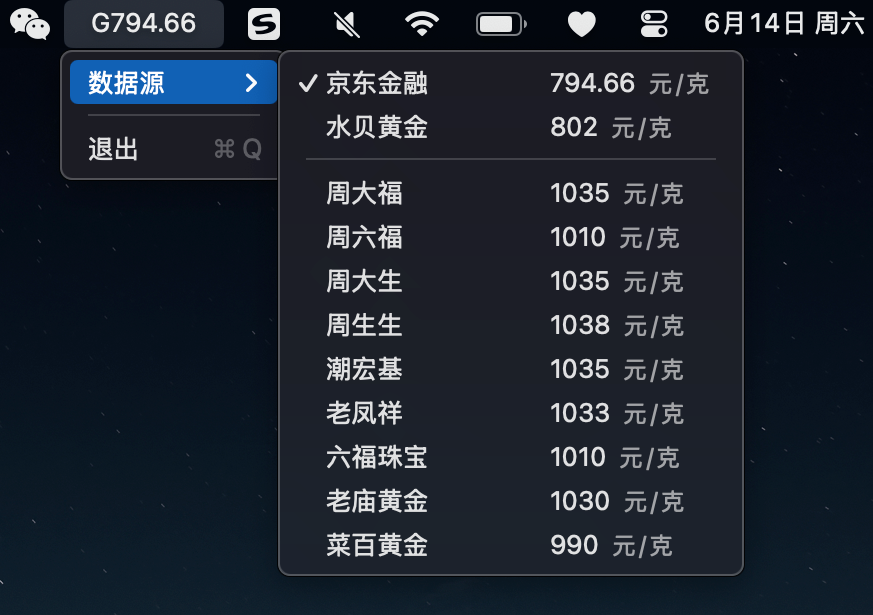
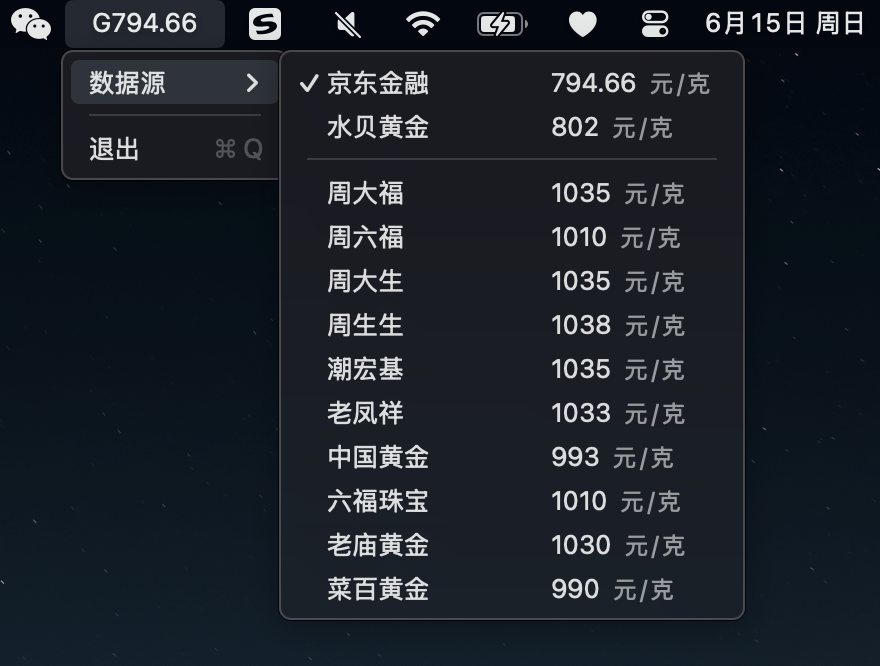
README 文件和效果图更新

Changed region(s): [[0.0619, 0.0, 0.9897, 0.9268], [0.3093, 0.865, 0.8351, 0.9577], [0.0, 0.0, 0.0619, 0.0618]]

diff --git a/README.md b/README.md
@@ -2,7 +2,9 @@
 
 ## 项目简介
 
-GoldPrice 是一个 MacOS 状态栏应用，用于实时显示黄金价格。应用直接在状态栏显示最新的黄金价格（人民币），京东涵盖京东金融实时金价、水贝黄金当天金价和全国各大知名品牌金店的当天金价。
+GoldPrice 是一个 MacOS 状态栏应用，用于实时显示黄金价格。
+应用直接在状态栏显示最新的黄金价格（人民币）。
+数据源涵盖京东金融实时金价、水贝黄金当天金价、全国各大知名品牌金店的当天金价。
 
 
 ## 效果展示
@@ -17,7 +19,7 @@ GoldPrice 是一个 MacOS 状态栏应用，用于实时显示黄金价格。应
 ## 功能特点
 
 - 🏅 **实时价格显示** - 在 MacOS 状态栏实时显示黄金价格（人民币）
-- 📊 **多数据源支持** - 支持11个数据源，包括京东金融（实时）、水贝黄金（当天）和9大品牌金店（当天）
+- 📊 **多数据源支持** - 支持12个数据源，包括京东金融（实时）、水贝黄金（当天）和 10 大品牌金店（当天）
 - ⚡ **金价实时对比** - 通过数据源菜单列表对比各个数据源的金价，且支持切换状态栏显示的金价数据源
 - 🔄 **自动定时刷新** - 每秒自动刷新价格数据，保持数据最新
 
